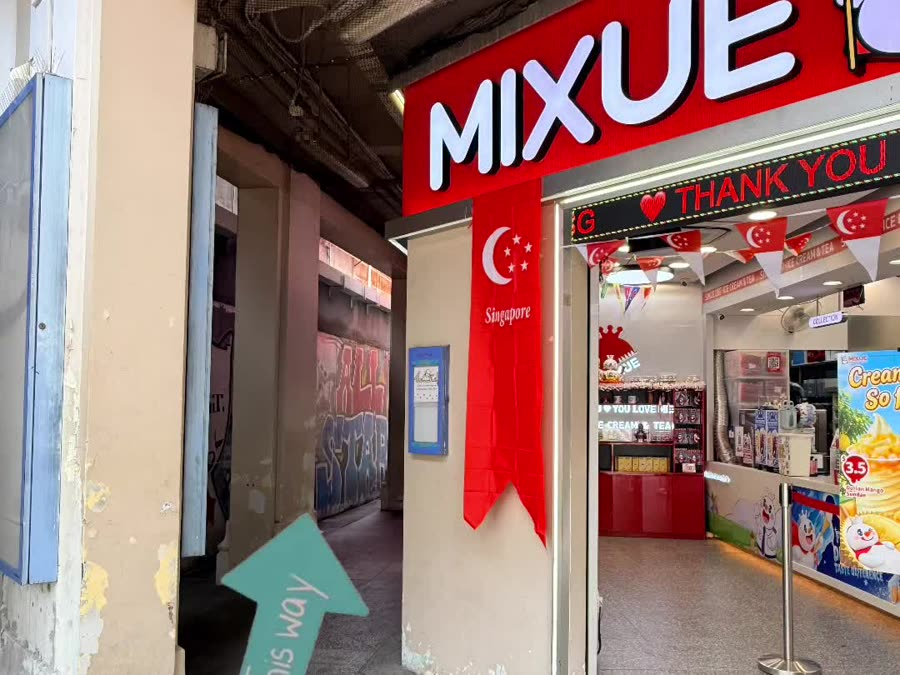
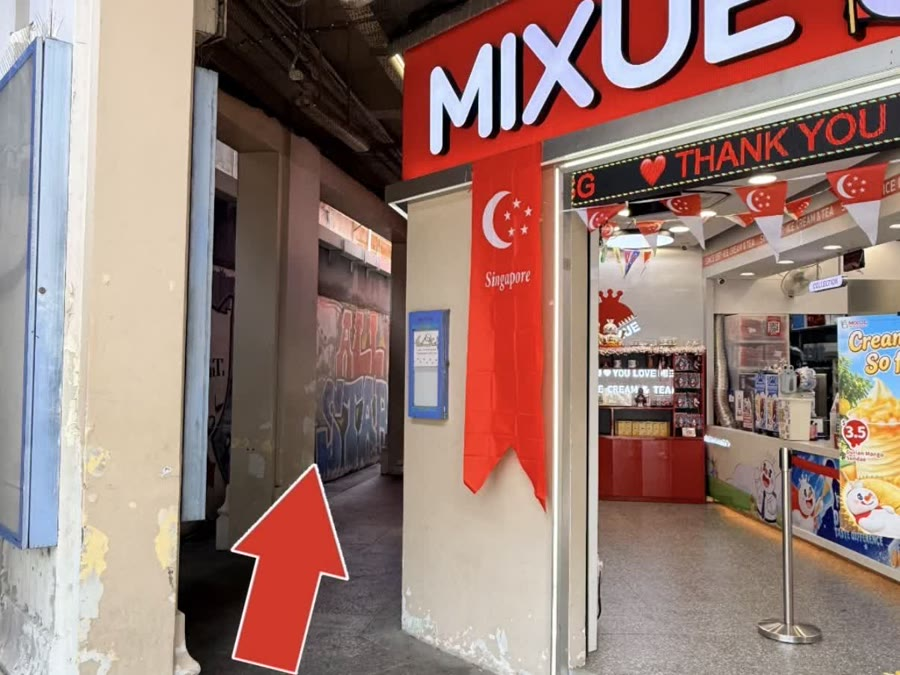
Swap in the user-provided direction photos
Replace the video-frame stills with the three annotated photos
supplied directly (arrow to the building across Victoria Street, arrow
into the walkway beside Mixue, arrow up the alley to Level 3).

Claude-Session: https://claude.ai/code/session_0195fPFLY4d9irwkWGmu3xQ4

diff --git a/index.html b/index.html
@@ -406,7 +406,7 @@
     </div>
     <div class="loc-photos">
       <div class="loc-photo-card">
-        <div class="loc-photo-wrap"><img src="images/location/direction1.jpg" alt="Street view across Victoria Street with the cat cafe's building circled, near Bugis Street" loading="lazy" decoding="async" onerror="this.parentNode.innerHTML='<div class=loc-photo-placeholder>&#x1F3E2;</div>'"></div>
+        <div class="loc-photo-wrap"><img src="images/location/direction1.jpg" alt="Street view across Victoria Street with an arrow pointing to the cat cafe's building, near Bugis Street" loading="lazy" decoding="async" onerror="this.parentNode.innerHTML='<div class=loc-photo-placeholder>&#x1F3E2;</div>'"></div>
         <div class="loc-photo-label">Spot our building across Victoria Street</div>
       </div>
       <div class="loc-photo-card">
